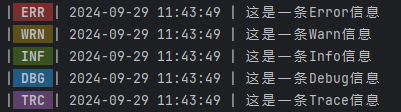
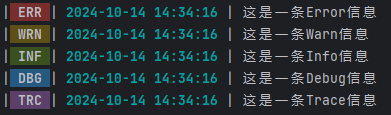
v1.5.0

diff --git a/formatter/json.go b/formatter/json.go
@@ -1,0 +1,91 @@
+package formatter
+
+import (
+	"bytes"
+	"encoding/json"
+	"fmt"
+	"github.com/sirupsen/logrus"
+	"runtime"
+	"time"
+)
+
+const (
+	defaultTimestampFormat = time.RFC3339
+	FieldKeyMsg            = "msg"
+	FieldKeyLevel          = "level"
+	FieldKeyTime           = "time"
+	FieldKeyLogrusError    = "logrus_error"
+	FieldKeyFunc           = "func"
+	FieldKeyFile           = "file"
+)
+
+type Fields map[string]interface{}
+
+type fieldKey string
+
+// FieldMap allows customization of the key names for default fields.
+type FieldMap map[fieldKey]string
+
+func (f FieldMap) resolve(key fieldKey) string {
+	if k, ok := f[key]; ok {
+		return k
+	}
+
+	return string(key)
+}
+
+type Json struct {
+	TimestampFormat   string
+	DisableTimestamp  bool
+	DisableHTMLEscape bool
+	DataKey           string
+	FieldMap          FieldMap
+	CallerPrettyfier  func(*runtime.Frame) (function string, file string)
+	PrettyPrint       bool
+}
+
+func (f *Json) Format(entry *logrus.Entry) ([]byte, error) {
+	data := make(Fields, len(entry.Data)+4)
+	for k, v := range entry.Data {
+		switch v := v.(type) {
+		case error:
+			data[k] = v.Error()
+		default:
+			data[k] = v
+		}
+	}
+
+	if f.DataKey != "" {
+		newData := make(Fields, 4)
+		newData[f.DataKey] = data
+		data = newData
+	}
+
+	timestampFormat := f.TimestampFormat
+	if timestampFormat == "" {
+		timestampFormat = "2006-01-02 15:04:05"
+	}
+	if !f.DisableTimestamp {
+		data[f.FieldMap.resolve(FieldKeyTime)] = entry.Time.Format(timestampFormat)
+	}
+	data[f.FieldMap.resolve(FieldKeyMsg)] = entry.Message
+	data[f.FieldMap.resolve(FieldKeyLevel)] = entry.Level.String()
+
+	var b *bytes.Buffer
+	if entry.Buffer != nil {
+		b = entry.Buffer
+	} else {
+		b = &bytes.Buffer{}
+	}
+
+	encoder := json.NewEncoder(b)
+	encoder.SetEscapeHTML(!f.DisableHTMLEscape)
+	if f.PrettyPrint {
+		encoder.SetIndent("", "  ")
+	}
+	if err := encoder.Encode(data); err != nil {
+		return nil, fmt.Errorf("failed to marshal fields to JSON, %w", err)
+	}
+
+	return b.Bytes(), nil
+}

diff --git a/levels/levels.go b/levels/levels.go
@@ -1,0 +1,47 @@
+package levels
+
+import "github.com/logrusorgru/aurora/v4"
+
+type Level uint32
+
+const (
+	PanicLevel Level = iota
+	FatalLevel
+	ErrorLevel
+	WarnLevel
+	InfoLevel
+	DebugLevel
+	TraceLevel
+)
+
+// String 全称，适用于json输出
+func (l Level) String() string {
+	return [...]string{"Panic", "Fatal", "Error", "Warn", "Info", "Debug", "Trace"}[l]
+}
+
+// Acronym 缩写，适用于控制台、文件等输出
+func (l Level) Acronym() string {
+	return [...]string{" PNC ", " FAT ", " ERR ", " WRN ", " INF ", " DBG ", " TRC "}[l]
+}
+
+// Color 控制台颜色输出
+func (l Level) Color() string {
+	switch l {
+	case PanicLevel:
+		return aurora.Bold(aurora.BgRed(l.Acronym())).String()
+	case FatalLevel:
+		return aurora.Bold(aurora.BgRed(l.Acronym())).String()
+	case ErrorLevel:
+		return aurora.Bold(aurora.BgRed(l.Acronym())).String()
+	case WarnLevel:
+		return aurora.Bold(aurora.BgYellow(l.Acronym())).String()
+	case InfoLevel:
+		return aurora.Bold(aurora.BgGreen(l.Acronym())).String()
+	case DebugLevel:
+		return aurora.Bold(aurora.BgBlue(l.Acronym())).String()
+	case TraceLevel:
+		return aurora.Bold(aurora.BgMagenta(l.Acronym())).String()
+	default:
+		return aurora.Bold(aurora.BgRed(" ??? ")).String()
+	}
+}

diff --git a/formatter/cli_and_file.go b/formatter/cli_and_file.go
@@ -1,0 +1,45 @@
+package formatter
+
+import (
+	"fmt"
+	"github.com/Zcentury/logger/levels"
+	"github.com/logrusorgru/aurora/v4"
+	"github.com/sirupsen/logrus"
+)
+
+// CLIAndFileFormatter 在控制台中输出好看的日志，在文件中输出没有颜色字符的日志
+// 暂时不支持多输出自动判断，这也是下一步要解决的问题
+type CLIAndFileFormatter struct {
+	TimeFormat string // 自定义日期格式化
+	UseColor   bool   // 是否使用颜色
+}
+
+func (f *CLIAndFileFormatter) Format(entry *logrus.Entry) ([]byte, error) {
+	isTerminal := checkTerminal(entry.Logger.Out)
+	fmt.Println(isTerminal)
+
+	level := levels.Level(entry.Level)
+	var levelData string
+	var layout string
+
+	if f.UseColor {
+		levelData = level.Color()
+	} else {
+		levelData = level.Acronym()
+	}
+
+	if f.TimeFormat != "" {
+		layout = f.TimeFormat
+	} else {
+		layout = "2006-01-02 15:04:05"
+	}
+
+	tm := entry.Time.Format(layout)
+
+	if f.UseColor {
+		tm = aurora.Bold(aurora.Cyan(tm)).String()
+	}
+
+	logMsg := fmt.Sprintf("|%s| %s | %s\n", levelData, tm, entry.Message)
+	return []byte(logMsg), nil
+}

diff --git a/logger.go b/logger.go
@@ -1,6 +1,8 @@
 package logger
 
 import (
+	"github.com/Zcentury/logger/formatter"
+	"github.com/Zcentury/logger/levels"
 	"github.com/sirupsen/logrus"
 	"io"
 	"os"
@@ -10,24 +12,33 @@ var logger = logrus.New()
 
 func init() {
 	// 设置日志级别为Info
-	SetLevel(InfoLevel)
+	SetLevel(levels.InfoLevel)
 
 	// 设置日志格式为JSON格式
-	SetFormatter(&DefaultFormatter{})
+	SetFormatter(&formatter.CLI{
+		UseColor: true,
+	})
 
 	// 设置输出到标准错误输出
 	SetOutput(os.Stdout)
 }
 
-func SetOutput(output io.Writer) {
-	logger.SetOutput(output)
+func SetOutput(outputs ...io.Writer) {
+	if len(outputs) == 0 {
+		return
+	}
+	if len(outputs) > 1 {
+		logger.SetOutput(io.MultiWriter(outputs...))
+	} else {
+		logger.SetOutput(outputs[0])
+	}
 }
 
 func SetFormatter(formatter logrus.Formatter) {
 	logger.SetFormatter(formatter)
 }
 
-func SetLevel(level int) {
+func SetLevel(level levels.Level) {
 	logger.SetLevel(logrus.Level(level))
 }
 

diff --git a/examples/main.go b/examples/main.go
@@ -1,16 +1,19 @@
 package main
 
-import "github.com/Zcentury/logger"
+import (
+	"github.com/Zcentury/logger"
+	"github.com/Zcentury/logger/levels"
+)
 
 func main() {
 	// 设置日志输出等级
 	// PanicLevel < FatalLevel < ErrorLevel < WarnLevel < InfoLevel < DebugLevel < TraceLevel
 	// 例如等级为 TraceLevel 就可以输出小于等于 TraceLevel 的所有日志
 	// 如果不设置 默认是 InfoLevel
-	logger.SetLevel(logger.TraceLevel)
+	logger.SetLevel(levels.TraceLevel)
 
-	// logger.Panic("这是一条Panic信息，我会导致程序 Panic")
-	// logger.Fatal("这是一条Fatal信息，我会导致程序 Fatal")
+	//logger.Panic("这是一条Panic信息，我会导致程序 Panic")
+	//logger.Fatal("这是一条Fatal信息，我会导致程序 Fatal")
 	logger.Error("这是一条Error信息")
 	logger.Warn("这是一条Warn信息")
 	logger.Info("这是一条Info信息")

diff --git a/formatter/cli.go b/formatter/cli.go
@@ -1,0 +1,41 @@
+package formatter
+
+import (
+	"fmt"
+	"github.com/Zcentury/logger/levels"
+	"github.com/logrusorgru/aurora/v4"
+	"github.com/sirupsen/logrus"
+)
+
+// CLI 在控制台中输出日志
+type CLI struct {
+	TimeFormat string // 自定义日期格式化
+	UseColor   bool   // 是否使用颜色
+}
+
+func (f *CLI) Format(entry *logrus.Entry) ([]byte, error) {
+	level := levels.Level(entry.Level)
+	var levelData string
+	var layout string
+
+	if f.UseColor {
+		levelData = level.Color()
+	} else {
+		levelData = level.Acronym()
+	}
+
+	if f.TimeFormat != "" {
+		layout = f.TimeFormat
+	} else {
+		layout = "2006-01-02 15:04:05"
+	}
+
+	tm := entry.Time.Format(layout)
+
+	if f.UseColor {
+		tm = aurora.Bold(aurora.Cyan(tm)).String()
+	}
+
+	logMsg := fmt.Sprintf("|%s| %s | %s\n", levelData, tm, entry.Message)
+	return []byte(logMsg), nil
+}

diff --git a/formatter/utils.go b/formatter/utils.go
@@ -1,0 +1,24 @@
+package formatter
+
+import (
+	"golang.org/x/sys/windows"
+	"io"
+	"os"
+)
+
+func checkTerminal(w io.Writer) bool {
+	switch v := w.(type) {
+	case *os.File:
+		handle := windows.Handle(v.Fd())
+		var mode uint32
+		if err := windows.GetConsoleMode(handle, &mode); err != nil {
+			return false
+		}
+		mode |= windows.ENABLE_VIRTUAL_TERMINAL_PROCESSING
+		if err := windows.SetConsoleMode(handle, mode); err != nil {
+			return false
+		}
+		return true
+	}
+	return false
+}

diff --git a/writer/file.go b/writer/file.go
@@ -1,0 +1,10 @@
+package writer
+
+type FileWriter struct {
+	Name         string
+	AutoDateName bool // 是否自动设置文件名
+}
+
+func (w *FileWriter) Write(p []byte) (n int, err error) {
+	return 0, nil
+}
